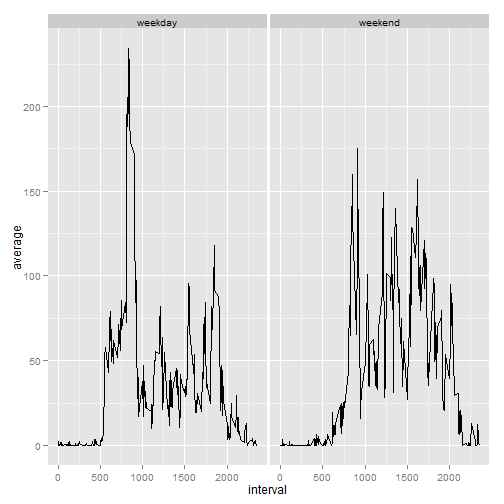
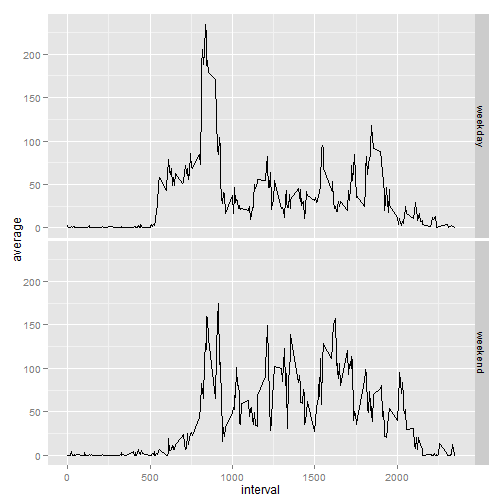
better presentation and more comments

diff --git a/PA1_template.html b/PA1_template.html
@@ -249,7 +249,8 @@ median(dataSummarised$total)
 
 <h2>What is the average daily activity pattern?</h2>
 
-<pre><code class="r"># 1. Make a time series plot (i.e. type = &quot;l&quot;) of the 5-minute interval (x-axis) and the average number of steps taken, averaged across all days (y-axis)
+<pre><code class="r"># 1. Make a time series plot (i.e. type = &quot;l&quot;) of the 5-minute interval (x-axis) 
+#    and the average number of steps taken, averaged across all days (y-axis)
 ## summarize data
 dataSummarised2 &lt;-
     data %&gt;%
@@ -257,12 +258,17 @@ dataSummarised2 &lt;-
     group_by(interval) %&gt;%
     summarise(average = mean(steps))
 ## build time series
-plot(x = dataSummarised2$interval, y = dataSummarised2$average, type = &quot;l&quot;, xlab = &quot;interval&quot;, ylab = &quot;average&quot;)
+plot(
+    x = dataSummarised2$interval, 
+    y = dataSummarised2$average, 
+    type = &quot;l&quot;, 
+    xlab = &quot;interval&quot;, ylab = &quot;average&quot;)
 </code></pre>
 
[1 lines of base64/hex data omitted]
 
-<pre><code class="r"># 2. Which 5-minute interval, on average across all the days in the dataset, contains the maximum number of steps?
+<pre><code class="r"># 2. Which 5-minute interval, on average across all the days in the dataset, 
+#    contains the maximum number of steps?
 ## get the interval with the maximum
 dataSummarised2$interval[dataSummarised2$average == max(dataSummarised2$average)]
 </code></pre>
@@ -272,7 +278,8 @@ dataSummarised2$interval[dataSummarised2$average == max(dataSummarised2$average)
 
 <h2>Imputing missing values</h2>
 
-<pre><code class="r"># 1. Calculate and report the total number of missing values in the dataset (i.e. the total number of rows with NAs)
+<pre><code class="r"># 1. Calculate and report the total number of missing values in the dataset 
+#   (i.e. the total number of rows with NAs)
 ## calculate number of NA values
 sum(is.na(data))
 </code></pre>
@@ -280,8 +287,12 @@ sum(is.na(data))
 <pre><code>## [1] 2304
 </code></pre>
 
-<pre><code class="r"># 2. Devise a strategy for filling in all of the missing values in the dataset. The strategy does not need to be sophisticated. For example, you could use the mean/median for that day, or the mean for that 5-minute interval, etc.
-## I am substituting the NA values by the mean of the steps taken for that particular interval. I chose this strategy because people are likely to follow different patterns for different intervals and therefore the number of steps is likely to differ a lot from interval to interval.
+<pre><code class="r"># 2. Devise a strategy for filling in all of the missing values in the dataset. 
+#    The strategy does not need to be sophisticated. 
+## I am substituting the NA values by the mean of the steps taken for that particular interval. 
+## I chose this strategy because people are likely to follow different patterns for different intervals 
+## and therefore the number of steps is likely to differ a lot from interval to interval.
+
 # 3. Create a new dataset that is equal to the original dataset but with the missing data filled in.
 intervalMean &lt;- 
     data %&gt;%  
@@ -295,7 +306,10 @@ dataSummarised3 &lt;-
     merge(intervalMean, by.x = &quot;interval&quot;, by.y = &quot;interval&quot;) %&gt;%
     mutate(steps = ifelse(is.na(steps), average, steps), average = NULL)
 
-# 4. Make a histogram of the total number of steps taken each day and Calculate and report the mean and median total number of steps taken per day. Do these values differ from the estimates from the first part of the assignment? What is the impact of imputing missing data on the estimates of the total daily number of steps?
+# 4. Make a histogram of the total number of steps taken each day and Calculate and report the mean and 
+#    median total number of steps taken per day. Do these values differ from the estimates from the first 
+#    part of the assignment? What is the impact of imputing missing data on the estimates of the total 
+#    daily number of steps?
 ## summarize data
 dataSummarised3 &lt;-    
     dataSummarised3 %&gt;%
@@ -308,25 +322,31 @@ hist(dataSummarised3$total, xlab = &quot;Total Steps&quot;, main = &quot;Histogr
[1 lines of base64/hex data omitted]
 
 <pre><code class="r">## mean of total
-mean(dataSummarised$total)
+mean(dataSummarised3$total)
 </code></pre>
 
 <pre><code>## [1] 10766.19
 </code></pre>
 
 <pre><code class="r">## median of total
-median(dataSummarised$total)
+median(dataSummarised3$total)
 </code></pre>
 
-<pre><code>## [1] 10765
+<pre><code>## [1] 10766.19
 </code></pre>
 
-<pre><code class="r">## The values do not differ because assuming 0 is the same as ignoring NA values for the purposes of frequency, mean and median.
+<pre><code class="r">## The values differ because we are adding a few more values and occurrences the mean whereas before
+## we just ignored those values.
+## Even though the mean is the same (because the inserted values were in themselves a mean) but the 
+## median changed slightly.
+## Of course the total of steps also changed because the NA values now have a number that contributes 
+## to the total whereas before they didn&#39;t.
 </code></pre>
 
 <h2>Are there differences in activity patterns between weekdays and weekends?</h2>
 
-<pre><code class="r"># 1. Create a new factor variable in the dataset with two levels â€“ â€œweekdayâ€ and â€œweekendâ€ indicating whether a given date is a weekday or weekend day.
+<pre><code class="r"># 1. Create a new factor variable in the dataset with two levels â€“ â€œweekdayâ€ and â€œweekendâ€ indicating 
+#    whether a given date is a weekday or weekend day.
 ## Create a data frame with a weekday name to type map
 weekdays &lt;- 
     data.frame(
@@ -345,11 +365,15 @@ dataSummarised4 &lt;-
     group_by(interval, daytype) %&gt;%
     summarise(average = mean(steps))
 
-# 2. Make a panel plot containing a time series plot (i.e. type = &quot;l&quot;) of the 5-minute interval (x-axis) and the average number of steps taken, averaged across all weekday days or weekend days (y-axis). See the README file in the GitHub repository to see an example of what this plot should look like using simulated data.
-print(qplot(interval, average, data = dataSummarised4, facets = .~daytype, geom = &quot;line&quot;))
+# 2. Make a panel plot containing a time series plot (i.e. type = &quot;l&quot;) of the 5-minute interval (x-axis) 
+#    and the average number of steps taken, averaged across all weekday days or weekend days (y-axis). 
+#    See the README file in the GitHub repository to see an example of what this plot should look 
+#    like using simulated data.
+print(
+    qplot(interval, average, data = dataSummarised4, facets = daytype~., geom = &quot;line&quot;))
 </code></pre>
 
[2 lines of base64/hex data omitted]
 
 </body>
 

diff --git a/PA1_template.md b/PA1_template.md
@@ -62,7 +62,8 @@ median(dataSummarised$total)
 ## What is the average daily activity pattern?
 
 ```r
-# 1. Make a time series plot (i.e. type = "l") of the 5-minute interval (x-axis) and the average number of steps taken, averaged across all days (y-axis)
+# 1. Make a time series plot (i.e. type = "l") of the 5-minute interval (x-axis) 
+#    and the average number of steps taken, averaged across all days (y-axis)
 ## summarize data
 dataSummarised2 <-
     data %>%
@@ -70,13 +71,18 @@ dataSummarised2 <-
     group_by(interval) %>%
     summarise(average = mean(steps))
 ## build time series
-plot(x = dataSummarised2$interval, y = dataSummarised2$average, type = "l", xlab = "interval", ylab = "average")
+plot(
+    x = dataSummarised2$interval, 
+    y = dataSummarised2$average, 
+    type = "l", 
+    xlab = "interval", ylab = "average")
 ```
 
 ![plot of chunk daily](figure/daily-1.png) 
 
 ```r
-# 2. Which 5-minute interval, on average across all the days in the dataset, contains the maximum number of steps?
+# 2. Which 5-minute interval, on average across all the days in the dataset, 
+#    contains the maximum number of steps?
 ## get the interval with the maximum
 dataSummarised2$interval[dataSummarised2$average == max(dataSummarised2$average)]
 ```
@@ -88,7 +94,8 @@ dataSummarised2$interval[dataSummarised2$average == max(dataSummarised2$average)
 ## Imputing missing values
 
 ```r
-# 1. Calculate and report the total number of missing values in the dataset (i.e. the total number of rows with NAs)
+# 1. Calculate and report the total number of missing values in the dataset 
+#   (i.e. the total number of rows with NAs)
 ## calculate number of NA values
 sum(is.na(data))
 ```
@@ -98,8 +105,12 @@ sum(is.na(data))
 ```
 
 ```r
-# 2. Devise a strategy for filling in all of the missing values in the dataset. The strategy does not need to be sophisticated. For example, you could use the mean/median for that day, or the mean for that 5-minute interval, etc.
-## I am substituting the NA values by the mean of the steps taken for that particular interval. I chose this strategy because people are likely to follow different patterns for different intervals and therefore the number of steps is likely to differ a lot from interval to interval.
+# 2. Devise a strategy for filling in all of the missing values in the dataset. 
+#    The strategy does not need to be sophisticated. 
+## I am substituting the NA values by the mean of the steps taken for that particular interval. 
+## I chose this strategy because people are likely to follow different patterns for different intervals 
+## and therefore the number of steps is likely to differ a lot from interval to interval.
+
 # 3. Create a new dataset that is equal to the original dataset but with the missing data filled in.
 intervalMean <- 
     data %>%  
@@ -113,7 +124,10 @@ dataSummarised3 <-
     merge(intervalMean, by.x = "interval", by.y = "interval") %>%
     mutate(steps = ifelse(is.na(steps), average, steps), average = NULL)
 
-# 4. Make a histogram of the total number of steps taken each day and Calculate and report the mean and median total number of steps taken per day. Do these values differ from the estimates from the first part of the assignment? What is the impact of imputing missing data on the estimates of the total daily number of steps?
+# 4. Make a histogram of the total number of steps taken each day and Calculate and report the mean and 
+#    median total number of steps taken per day. Do these values differ from the estimates from the first 
+#    part of the assignment? What is the impact of imputing missing data on the estimates of the total 
+#    daily number of steps?
 ## summarize data
 dataSummarised3 <-    
     dataSummarised3 %>%
@@ -127,7 +141,7 @@ hist(dataSummarised3$total, xlab = "Total Steps", main = "Histogram of Total Ste
 
 ```r
 ## mean of total
-mean(dataSummarised$total)
+mean(dataSummarised3$total)
 ```
 
 ```
@@ -136,21 +150,27 @@ mean(dataSummarised$total)
 
 ```r
 ## median of total
-median(dataSummarised$total)
+median(dataSummarised3$total)
 ```
 
 ```
-## [1] 10765
+## [1] 10766.19
 ```
 
 ```r
-## The values do not differ because assuming 0 is the same as ignoring NA values for the purposes of frequency, mean and median.
+## The values differ because we are adding a few more values and occurrences the mean whereas before
+## we just ignored those values.
+## Even though the mean is the same (because the inserted values were in themselves a mean) but the 
+## median changed slightly.
+## Of course the total of steps also changed because the NA values now have a number that contributes 
+## to the total whereas before they didn't.
 ```
 
 ## Are there differences in activity patterns between weekdays and weekends?
 
 ```r
-# 1. Create a new factor variable in the dataset with two levels – “weekday” and “weekend” indicating whether a given date is a weekday or weekend day.
+# 1. Create a new factor variable in the dataset with two levels – “weekday” and “weekend” indicating 
+#    whether a given date is a weekday or weekend day.
 ## Create a data frame with a weekday name to type map
 weekdays <- 
     data.frame(
@@ -169,8 +189,12 @@ dataSummarised4 <-
     group_by(interval, daytype) %>%
     summarise(average = mean(steps))
 
-# 2. Make a panel plot containing a time series plot (i.e. type = "l") of the 5-minute interval (x-axis) and the average number of steps taken, averaged across all weekday days or weekend days (y-axis). See the README file in the GitHub repository to see an example of what this plot should look like using simulated data.
-print(qplot(interval, average, data = dataSummarised4, facets = .~daytype, geom = "line"))
+# 2. Make a panel plot containing a time series plot (i.e. type = "l") of the 5-minute interval (x-axis) 
+#    and the average number of steps taken, averaged across all weekday days or weekend days (y-axis). 
+#    See the README file in the GitHub repository to see an example of what this plot should look 
+#    like using simulated data.
+print(
+    qplot(interval, average, data = dataSummarised4, facets = daytype~., geom = "line"))
 ```
 
 ![plot of chunk weekdays](figure/weekdays-1.png) 
